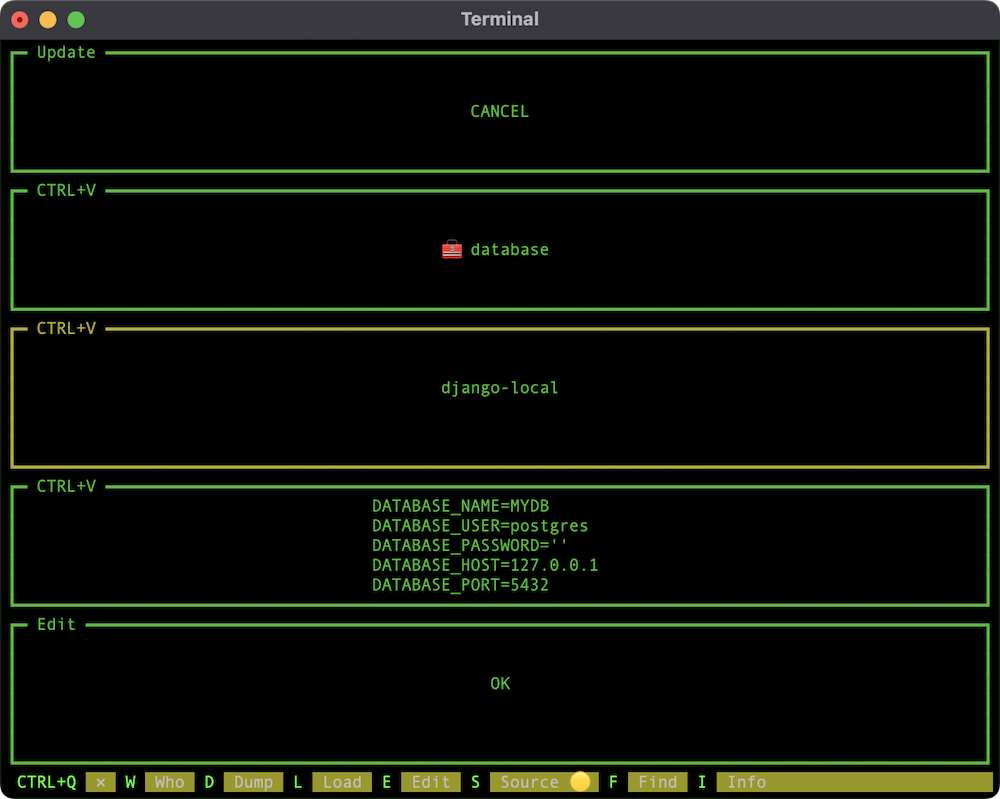
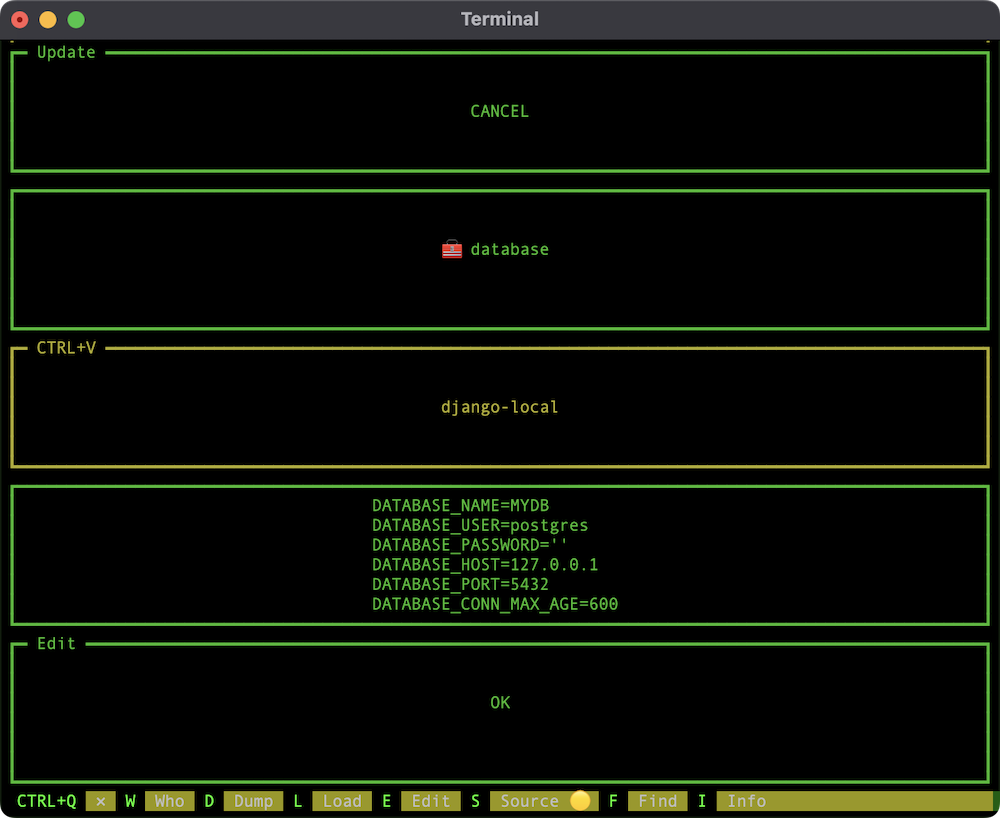
v1.3(ui)

diff --git a/tui.py b/tui.py
@@ -196,9 +196,9 @@ class ViewApp(App):
         self.edit_value.visible = not self.edit_value.visible
         self.edit_button.visible = not self.edit_button.visible
 
-        self.edit_group.content = group
-        self.edit_key.content = key
-        self.edit_value.content = value
+        self.edit_group.label = group
+        self.edit_key.label = key
+        self.edit_value.label = value
 
     def _process_edit_data(self, edit_action):
         self.edit_cancel.hide()
@@ -226,22 +226,23 @@ class ViewApp(App):
 
     def _add_data(self):
         self.vlt.add_data(
-            self.edit_group.content,
-            self.edit_key.content,
-            self.edit_value.content
+            self.edit_group.label,
+            self.edit_key.label,
+            self.edit_value.label
         )
 
     def _update_data(self, group, key):
         self.vlt.update_data(
             group,
-            self.edit_group.content,
+            self.edit_group.label,
             key,
-            self.edit_key.content,
-            self.edit_value.content
+            self.edit_key.label,
+            self.edit_value.label
         )
 
     def _clear_data(self, group, key):
         self.vlt.clear_data(group, key)
+        self._show_notification_load_json()
 
     def _add_view(self, group='', key='', value=''):
         self._process_edit_view('Group', 'Key', 'Value')
@@ -307,11 +308,10 @@ class ViewApp(App):
         )
         old_key = self.vlt.key
         old_source = self.vlt.vault_db
-        source = self.source_update.content
+        source = self.source_update.label
 
-        self.source_update.content = ''
+        self.source_update.label = self.vlt.get_default_source()
         self.source_update.hide()
-        self.source_default.hide()
         try:
             self.vlt.set_source(source)
             self.vlt.get_user(login, password)
@@ -366,19 +366,12 @@ class ViewApp(App):
 
         self._set_source_mode()
 
-    def _set_default_source(self):
-        self.source_update.content = self.vlt.get_default_source()
-        # prevent hide
-        self.source_default.visible = True
-
     def action_set_source(self):
-        self.source_update.content = ''
+        self.source_update.label = self.vlt.get_default_source()
         self.source_update.visible = not self.source_update.visible
-        self.source_default.visible = not self.source_default.visible
         self.source_button.visible = not self.source_button.visible
 
         self._hide_pop_up_view(
-            self.source_default,
             self.source_update,
             self.source_button
         )
@@ -421,7 +414,9 @@ class ViewApp(App):
             try:
                 self.action_load_data()
                 self.vlt.load_data(path)
-                self.cells_grid.update_cells(cells=self._create_cells())
+                self.cells_grid.update_cells(
+                    cells=self._create_cells()
+                )
                 self._show_notification_load_json()
             except (
                 err.ActionNotAllowedForRemote,
@@ -501,14 +496,8 @@ class ViewApp(App):
         self.load_json.hscroll = LoadScroll(vertical=False)
         self.load_json.visible = False
 
-        self.source_default = ActionButton(
-            title=DEFAULT_LABEL,
-            label=self.vlt.get_default_source(),
-            action=self._set_default_source,
-            sec=FAST_ACTION_TIME
-        )
         self.source_update = InputText(
-            title=PASTE_LABEL, content=''
+            title=PASTE_LABEL, label=self.vlt.get_default_source(),
         )
         self.source_button = ActionButton(
             title=SOURCE,
@@ -524,13 +513,13 @@ class ViewApp(App):
         )
 
         self.edit_group = InputText(
-            title=PASTE_LABEL, content=''
+            title=PASTE_LABEL, label=''
         )
         self.edit_key = InputText(
-            title=PASTE_LABEL, content=''
+            title=PASTE_LABEL, label=''
         )
         self.edit_value = InputText(
-            title=PASTE_LABEL, content=''
+            title=PASTE_LABEL, label=''
         )
         self.edit_button = ActionButton(
             title=EDIT, label=OK_LABEL
@@ -551,7 +540,6 @@ class ViewApp(App):
         await self.view.dock(self.dump_json, z=2)
         await self.view.dock(self.load_json, z=2)
         await self.view.dock(
-            self.source_default,
             self.source_update,
             self.source_button,
             z=2
@@ -576,7 +564,6 @@ class ViewApp(App):
             self.whoami,
             self.dump_json,
             self.load_json,
-            self.source_default,
             self.source_update,
             self.source_button,
             self.edit_cancel,

diff --git a/mixins.py b/mixins.py
@@ -8,7 +8,6 @@ from rich.style import Style
 from rich.text import Text
 
 from textual.reactive import Reactive
-from textual.widget import Widget
 
 from settings import GREEN, YELLOW
 
@@ -23,8 +22,8 @@ class ButtonMixin:
             Text(
                 self.on_click_label if self.clicked else self.label,
             ),
-            vertical='middle',
-            style=YELLOW if self.mouse_over else GREEN
+            style=YELLOW if self.mouse_over else GREEN,
+            vertical='middle'
         )
         return Panel(
             renderable,
@@ -48,34 +47,27 @@ class ButtonMixin:
         self.clicked = False
 
 
-class InputTextMixin(Widget):
-    content: Reactive[RenderableType] = Reactive('')
+class InputTextMixin(ButtonMixin):
+    label: Reactive[RenderableType] = Reactive('')
+    clicked: Reactive[RenderableType] = Reactive(False)
     mouse_over: Reactive[RenderableType] = Reactive(False)
     height = None
 
-    def on_enter(self) -> None:
-        self.mouse_over = True
-
-    def on_leave(self) -> None:
-        self.mouse_over = False
-
     def render(self) -> RenderableType:
-        if self.mouse_over:
-            color = YELLOW
-        else:
-            color = GREEN
 
         renderable = Align.center(
-            Text(self.content),
-            style=GREEN,
-            vertical='middle',
+            Text(self.label),
+            style=YELLOW if self.clicked else GREEN,
+            vertical='middle'
         )
 
         return Panel(
             renderable,
-            title=self.title,
+            title=self.title if self.clicked else '',
             title_align='left',
             height=self.height,
-            border_style=color,
+            border_style=Style(
+                color=YELLOW if self.mouse_over else GREEN
+            ),
             box=HEAVY
         )

diff --git a/widgets.py b/widgets.py
@@ -49,7 +49,7 @@ class CellGrid(GridView):
             fraction=1,
             min_size=8,
             max_size=24,
-            repeat=4
+            repeat=2
         )
         self.grid.add_row(
             'row',
@@ -251,18 +251,18 @@ class LoadTree(TreeControl):
         return label
 
 
-class InputText(InputTextMixin):
-    def __init__(self, title: str, content: str):
+class InputText(InputTextMixin, Widget):
+    def __init__(self, title: str, label: str):
         super().__init__()
         self.title = title
-        self.content = content
+        self.label = label
         self.visible = False
 
     def on_key(self, event: events.Key) -> None:
-        if self.mouse_over:
+        if self.mouse_over and self.clicked:
             if str(event.key) == 'ctrl+v':
-                self.content = ''
-                self.content += pc.paste()
+                self.label = ''
+                self.label += pc.paste()
                 self.refresh()
 
     def hide(self):

diff --git a/README.md b/README.md
@@ -1,4 +1,4 @@
-# vault
+# Vault
 
 v1.3
 
@@ -238,6 +238,6 @@ Vault use SHA256 algorithm. Database is a simple JSON file.
 7. App tries to decode each <strong>user token</strong> in database and compare with provided login and password.
 8. User successfully sign-in when provided login and password matches with decoded data from <strong>user token</strong>.
 
-# Restore password and decode data
+## Restore password and decode data
 
 Vault never save your decrypted password. Still no way to restore it and decode ecrypted data without password.
